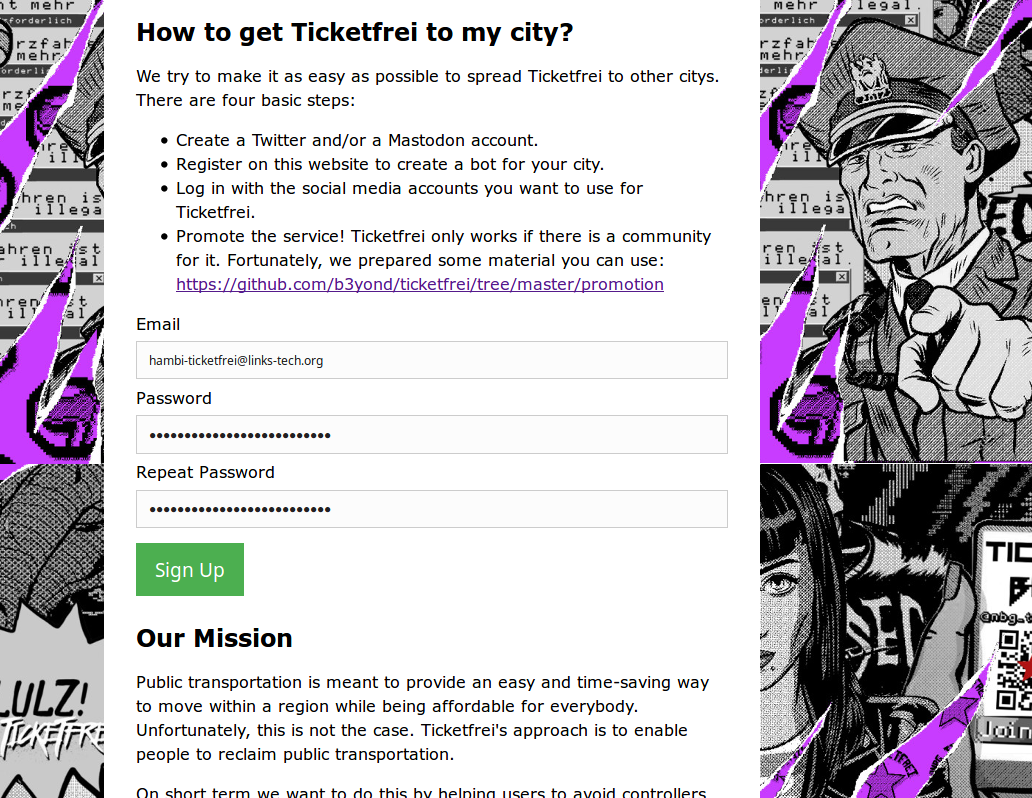
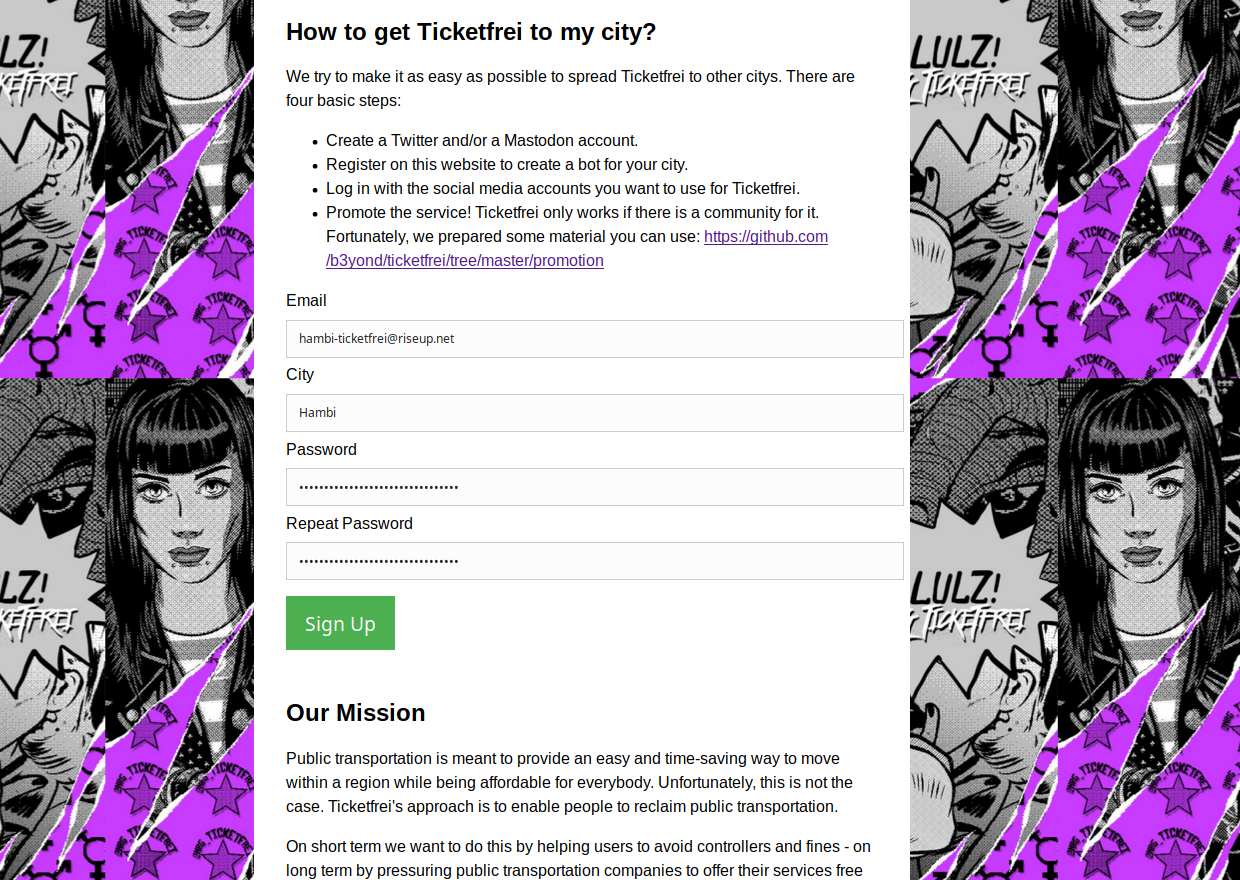
added website stuff

diff --git a/presentation.tex b/presentation.tex
@@ -51,7 +51,7 @@
 }
 
 \author[b3yond]
-{      b3yond \\
+{      b3yond \& ph4nt \\
       {}
 }
 
@@ -102,7 +102,7 @@
     \item<1-> Public Transport should be paid for by the public
     \item<1-> Save costs for everyone:
     \begin{itemize}
-    	\item<1-> No vending machines, no repairment
+    	\item<1-> No vending machines, no maintenance
     	\item<1-> No ticket controllers
     	\item<1-> Less administration costs
     	\item<1-> No privatized earnings from a monopoly/infrastructure
@@ -130,7 +130,7 @@
 \begin{itemize}
     \item<1-> Barriers for usage are one problem, participation is the other
     \item<1-> Infrastructure defines our lives
-    \item<1-> Democratic participation in infrastructure against private monopolies
+    \item<1-> Democratic participation in infrastructure vs. private monopolies
 	\item<1-> Ticketfrei does not do this, this is only accomplished by e.g. Freifunk
 \end{itemize}
     
@@ -204,25 +204,26 @@
     \item We saw it work in Berlin \& Hamburg, but their code was not open source.
     \item 2 people sat down for a day and wrote 80\%
     \item The other 20\% were written the next months (you know how it is)
-    \item It's still on Github: \url{https://github.com/b3yond/ticketfrei/}
-    \item Contribute on the multi-deployment branch!
+    \item Later we added a web interface so you can register a bot for your city
+    \item<2-> It's on Github: \url{https://github.com/b3yond/ticketfrei/}
+    \item<2-> You can contribute on the multi-deployment branch!
 \end{itemize}
     
 \end{frame}
 
 %-------------------------------------------------------
-\subsection{Development Roadmap}
-\begin{frame}{The Ticketfrei-Bot}{Development Roadmap}
+\section{Ticketfrei 2.0}
+\subsection{Ticketfrei in my city}
+\begin{frame}{The Ticketfrei Bot}{How can I bring Ticketfrei to my city?}
 %-------------------------------------------------------
 
 \begin{itemize}
-  \item<1-> We want to make it easier to install Ticketfrei in other cities
-  \item<1-> With a Webinterface people can install a bot via a fancy GUI, without needing a server and command line skills
-  \item<2-> So they can focus on the promotion instead on the technical side
-  \item<2-> The Repository contains drafts for promotion material, which you can adjust: \url{https://github.com/b3yond/ticketfrei/tree/master/promotion}
-  \item<2-> The website is here: \url{https://ticketfrei.links-tech.org} (staging environment)
+  \item<1-> The new web interface makes it easier to install Ticketfrei in other cities
+  \item<1-> Now you can create a bot on our website, without needing a server and command line skills
+  \item<1-> You can focus on the promotion instead of the technical side
+  \item<1-> The Repository contains drafts for promotion material, which you can adjust: \url{https://github.com/b3yond/ticketfrei/tree/multi-deployment/promotion}
+  \item<1-> The website is here: \url{https://ticketfrei.links-tech.org} (Beta)
 \end{itemize}
-
 
 \end{frame}
 
@@ -234,6 +235,70 @@
 \end{frame}
 \begin{frame}
 	\includegraphics[width=\textwidth]{screenshots/Screenshot_2018-03-30_01-13-16.png}	
+\end{frame}
+
+
+\subsection{Step-by-Step}
+\begin{frame}{The Ticketfrei Bot}{Step-by-Step}
+
+\begin{itemize}
+  \item Create an Account at https://ticketfrei.links-tech.org:
+  \begin{itemize}
+    \item E-Mail-Adress, City, Password
+  \end{itemize}
+  \item Add Social-Media accounts to your Ticketfrei account
+  \item Change the text on https://ticketfrei.links-tech.org/city/Nürnberg
+  \item Promote the use of the bot in your city
+\end{itemize}
+
+\end{frame}
+\begin{frame}{The Ticketfrei Bot}{Step-by-Step}
+
+\begin{block}{{Add Twitter}}
+  \begin{itemize}
+    \item Register a twitter account
+    \item Click on "Login with Twitter" in the settings
+    \item Log in to the twitter account of the bot
+    \item Authorize the Ticketfrei app
+  \end{itemize}
+\end{block}
+
+\end{frame}
+\begin{frame}{The Ticketfrei Bot}{Step-by-Step}
+
+\begin{block}{{Add Mastodon}}
+  \begin{itemize}
+    \item Register a mastodon account
+    \item Enter the account's e-mail address, the password, and the mastodon server to the settings
+    \item Click on "Log in"
+  \end{itemize}
+\end{block}
+
+\end{frame}
+\begin{frame}{The Ticketfrei Bot}{Step-by-Step}
+
+\begin{block}{{Add Telegram}}
+  \begin{itemize}
+    \item Write to @botfather on Telegram to register a Telegram Bot
+    \item Enter the API key which @botfather gives to you into the settings
+    \item Click on "Login with Telegram"
+  \end{itemize}
+\end{block}
+
+\end{frame}
+
+\subsection{promotion}
+\begin{frame}{The Ticketfrei Bot}{Promotion}
+
+\begin{itemize}
+  \item Leaflets in the local leftist scene, with more radical message
+  \item Leaflets for the public, which explains goals and talks about the environment, but also explains the bot
+  \item Example Leaflets are available in the GitHub-Repository at \url{https://github.com/b3yond/ticketfrei/tree/multi-deployment/promotion}
+  \item<2-> Aktionsschwarzfahren is a good way to both spread leaflets and dodge the fare legally
+  \item<3-> With enough public attention you can try to start a referendum or bring the topics to political parties for policy making
+  \item<4-> Studies about the practicability and cost effectiveness of ticket-free public transport in your area are also useful
+\end{itemize}
+
 \end{frame}
 
 %-------------------------------------------------------

diff --git a/feedback.md b/feedback.md
@@ -1,0 +1,25 @@
+
+
+SMS support
+
+Facebook API?
+
+http://controlebxl.be/
+
+http://www.memetro.net/
+
+use Ticketfrei for racial profiling
+
+what do people actually want to know when they listen to the talk?
+
+In which order we have to tell them?
+
+show more what is actually there
+* version 1.0, how do people use it
+* how does the website look like?
+* how can I set up my own?
+-> more interesting than the theoretical considerations
+
+add telegram support
+
+
